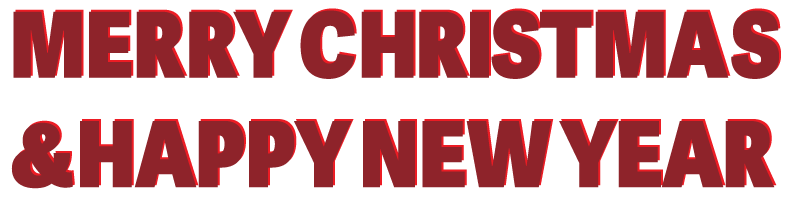
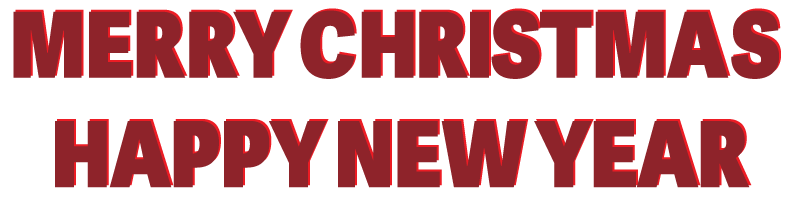
update...

Changed region(s): [[0.0, 0.57, 1.0, 0.96]]

diff --git a/index.html b/index.html
@@ -36,10 +36,10 @@
             <div class="ele intro year" style="width: 85px; left: 195px; top: 105px;"><img src="img/006.png" /></div>
             <div class="ele intro year" style="width: 85px; left: 260px; top: 105px;"><img src="img/006a.png" /></div>
             <div class="ele intro x" style="width: 200px; left: 110px; top: 165px;"><img src="img/014.png" /></div>
-            <div class="ele intro" style="width: 280px; left: 60px; top: 210px;"><img src="img/015.png" /></div>
+            <div class="ele intro" id="locale-a" style="width: 280px; left: 60px; top: 210px;"><img src="img/015.png" /></div>
             <div class="ele intro" style="width: 320px; left: 40px; top: 280px;"><img src="img/011.png" /></div>
-            <div class="ele intro" style="width: 180px; left: 110px; top: 290px;"><img src="img/021.png" /></div>
-            <div class="ele intro" style="width: 70px; left: 160px; top: 240px;"><img src="img/019.png" /></div>
+            <div class="ele intro" id="locale-b" style="width: 180px; left: 110px; top: 290px;"><img src="img/021.png" /></div>
+            <div class="ele intro" id="locale-c" style="width: 70px; left: 160px; top: 240px;"><img src="img/019.png" /></div>
             <div class="ele intro" style="width: 40px; left: 10px; top: 200px;"><img src="img/017.png" /></div>
             <div class="ele intro" style="width: 40px; left: 340px; top: 180px;"><img src="img/016.png" /></div>
             <div class="ele top" style="width: 40px; left: 15px; top: -10px;"><img src="img/004.png" /></div>
@@ -64,6 +64,12 @@
         document.addEventListener('WeixinJSBridgeReady', function(){media.play()});
         //
         $(function () {
+            //
+            if (location.hash.split('#')[1]!='international') {
+                $('#locale-a').width(340).height(40).css({overflow: 'hidden', top: 220, left: 30,}).children().css('margin-top', -40);
+                $('#locale-b').css('top', 270).children().prop('src', 'img/022.png');
+                $('#locale-c').css({top: 215, left: 110});
+            }
             //
             for (var i=0; i<10; i++) {
                 setTimeout(createSnow, Math.round(Math.random()*8000)+1000);

diff --git a/css/app.css b/css/app.css
@@ -22,7 +22,7 @@ html, body { height: 100%; background: #7d0909;}
 .rotate2 { animation: key-rotate 20s linear infinite reverse; }
 .point { animation: key-showloop 10s ease infinite; }
 .top { animation: key-top 3s ease-in-out infinite alternate; }
-.year { animation: key-yearloop 10s ease infinite; }
+.year { animation: key-yearloop 6s ease infinite; }
 .x { animation: key-x 1s ease infinite; }
 
 @keyframes key-btn {
